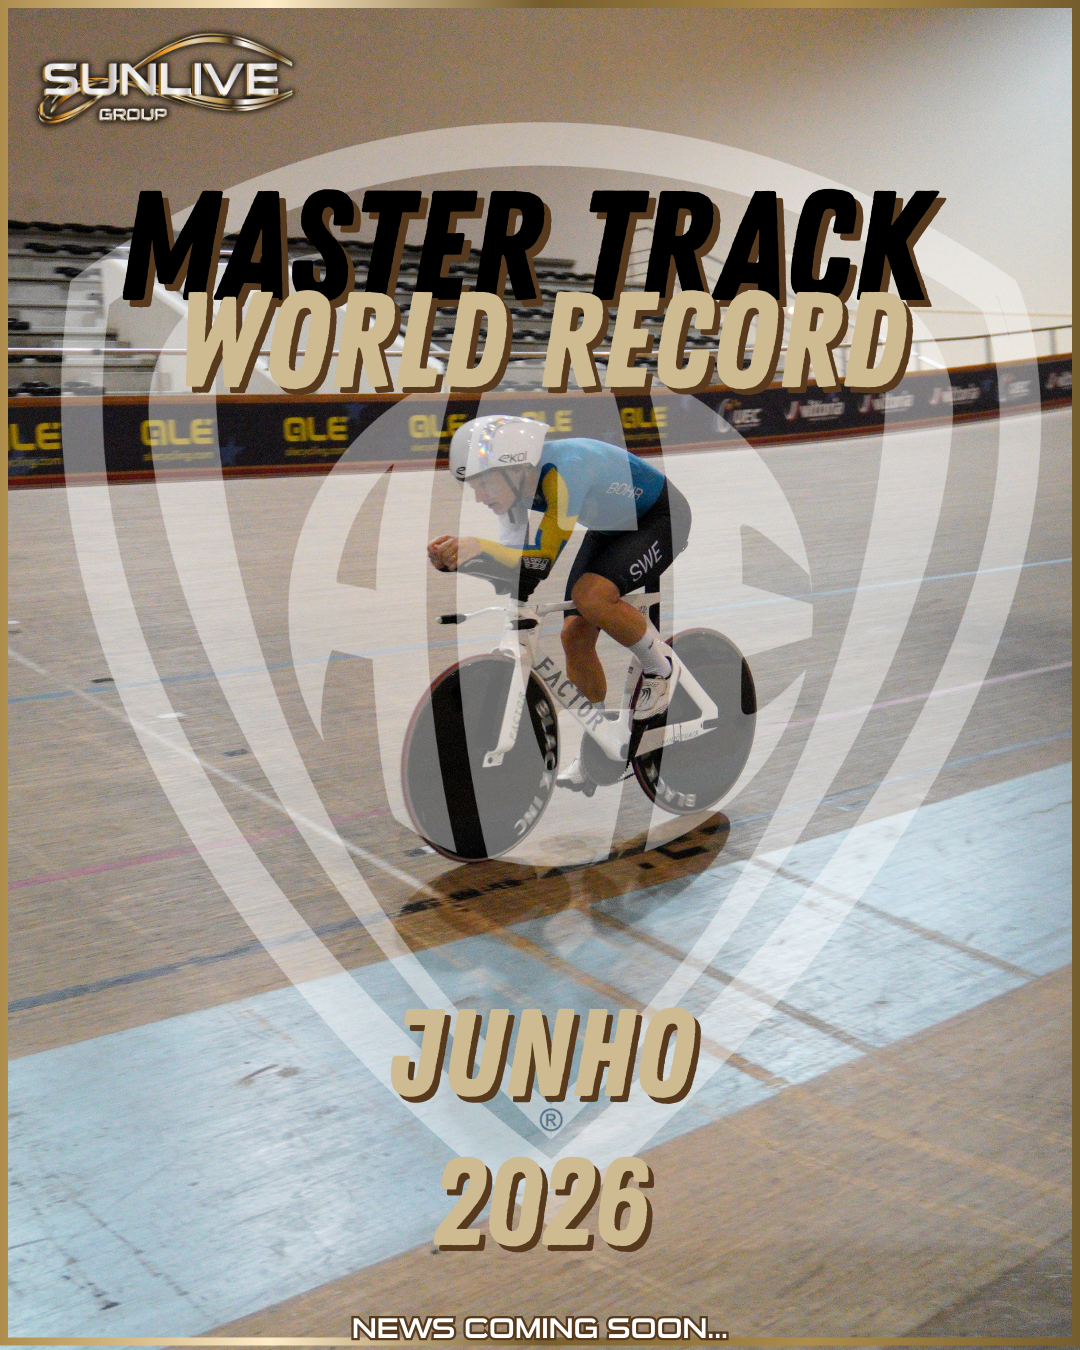
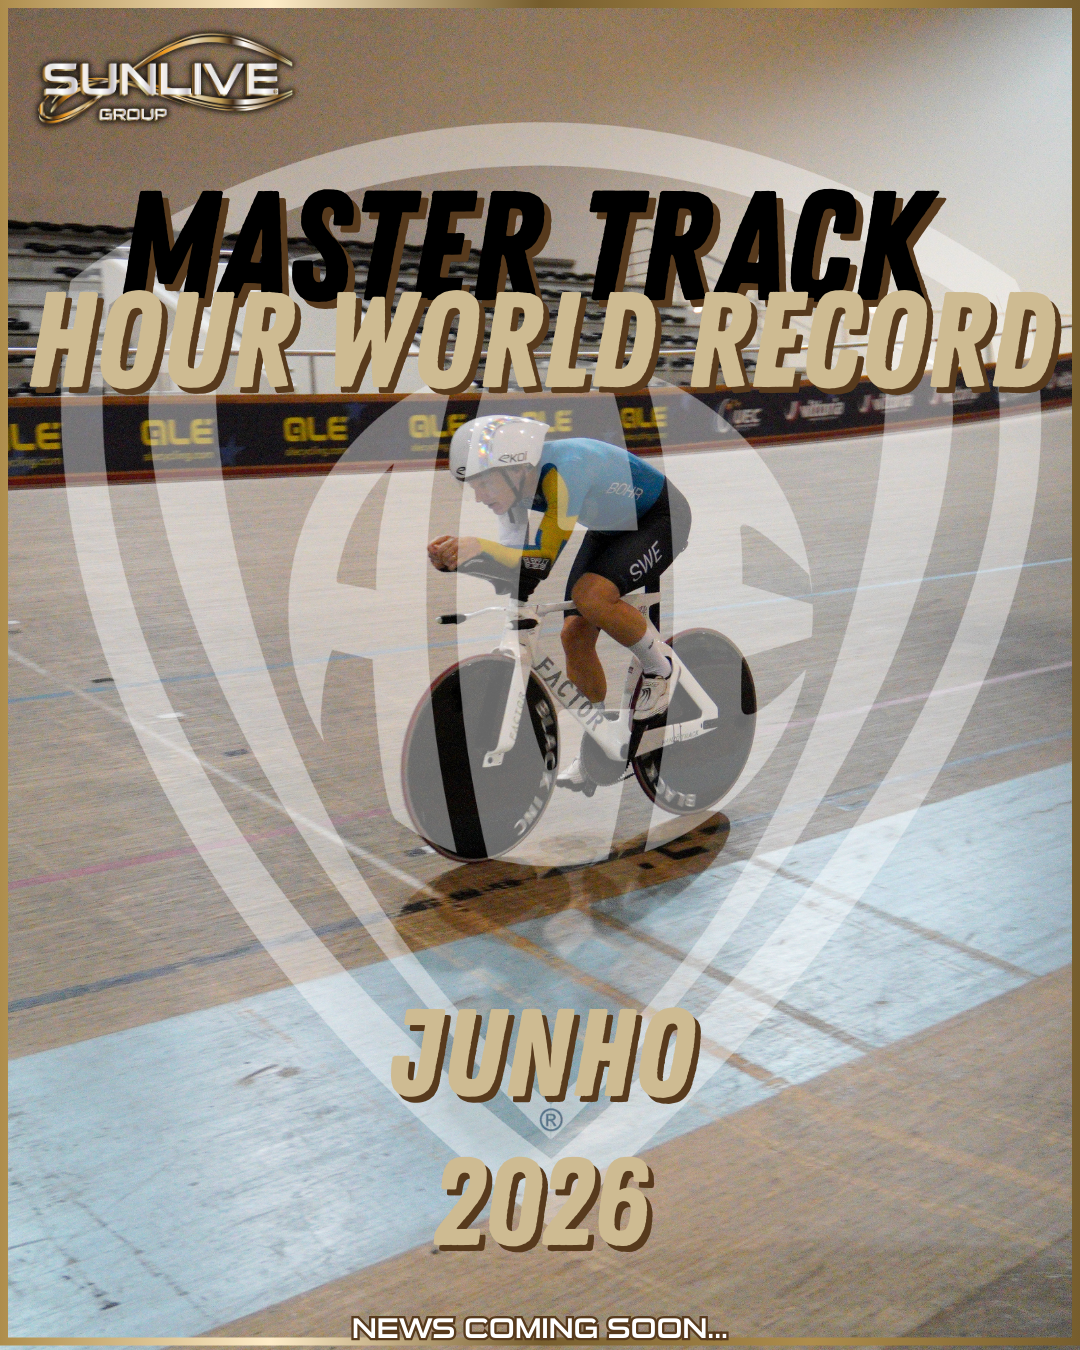
update images

Changed region(s): [[0.0306, 0.2178, 1.0, 0.3111]]

diff --git a/src/config/content/events/sunlive-track-trophy-c2.js b/src/config/content/events/sunlive-track-trophy-c2.js
@@ -7,7 +7,7 @@ import fdpLogo from "../../../assets/logos/fdp.png";
 export default {
   key: "sunlive-track-trophy-c2",
   hero: {
-    title: "Sunlive Track Trophy C2",
+    title: "Sunlive Track Trophy",
     dateLabel: "definer to later, December, 2026",
     locationLabel: "Velódromo de Sangalhos • High Performance Center",
     locationHref:
@@ -53,7 +53,7 @@ export default {
   },
 
   description: {
-    title: "The Event : Track Cycling Race (C2 Category)",
+    title: "The Event : Track Cycling Race",
     paragraphs: [
       "Speed closes the sporting year. Once again in partnership with the Portuguese Cycling Federation, this C2-class event brings track cyclists together to compete for the trophy in the controlled, high-performance environment of the National Velodrome.",
       "A day of precision and power, featuring fast-paced races and elite-level competition — designed to deliver a top-standard track cycling experience.",
@@ -63,7 +63,7 @@ export default {
       title: "Highlights",
       icon: "check",
       items: [
-        "Official track cycling race — C2 category",
+        "Official track cycling race",
         "In partnership with the Portuguese Cycling Federation",
         "Hosted in the controlled, high-performance environment of the National Velodrome",
         "Fast-paced racing focused on precision, power, and high-level competition",

diff --git a/src/config/content/events/sunlive-bmx-trophy-c2.js b/src/config/content/events/sunlive-bmx-trophy-c2.js
@@ -7,7 +7,7 @@ import fdpLogo from "../../../assets/logos/fdp.png";
 export default {
   key: "sunlive-bmx-trophy-c2",
   hero: {
-    title: "Sunlive BMX Trophy C2",
+    title: "Sunlive BMX Trophy",
     dateLabel: "definer to later, September, 2026",
     locationLabel: "Olympic BMX Track • Anadia",
     locationHref:
@@ -46,7 +46,7 @@ export default {
   },
 
   description: {
-    title: "The Event : BMX Race (C2 Category)",
+    title: "The Event : BMX Race",
     paragraphs: [
       "Pure adrenaline on the track. In partnership with the Portuguese Cycling Federation, the Sunlive Trophy brings an official C2-level competition to the Velodrome, challenging BMX riders to showcase their technique and speed.",
       "Expect explosive starts, technical lines, and intense head-to-head racing — an event built for high performance and a true competitive atmosphere.",
@@ -56,7 +56,7 @@ export default {
       title: "Highlights",
       icon: "check",
       items: [
-        "“Official BMX race — C2 category",
+        "“Official BMX race",
         "In partnership with the Portuguese Cycling Federation",
         "Focused on technique, speed, and technical lines",
         "Intense racing with explosive starts and head-to-head battles",

diff --git a/src/config/content/home.content.js b/src/config/content/home.content.js
@@ -231,8 +231,8 @@ const events = {
       image: eventRhythmicGymnasticsSunsetCup,
       href: "",
       year: 2026,
-      month: "April",
-      dateText: "April 2026 (date to be confirmed)",
+      month: "October",
+      dateText: "October 2026 (date to be confirmed)",
       tbd: true,
       sport: "RG",
     },
@@ -262,7 +262,7 @@ const events = {
     },
     {
       key: "master-track-world-record",
-      title: "Master Track World Record",
+      title: "Master Track Hour World Record",
       image: eventMasterTrackWorldRecord,
       href: "",
       year: 2026,
@@ -351,7 +351,7 @@ const events = {
     },
     {
       key: "sunlive-bmx-trophy-c2",
-      title: "Sunlive BMX Trophy C2",
+      title: "Sunlive BMX Trophy",
       image: eventSunliveBmxTrophyC2,
       href: "",
       year: 2026,
@@ -398,7 +398,7 @@ const events = {
     },
     {
       key: "sunlive-track-trophy-c2",
-      title: "Sunlive Track Trophy C2",
+      title: "Sunlive Track Trophy",
       image: eventSunliveTrackTrophyC2,
       href: "",
       year: 2026,

diff --git a/src/config/content/events/rhythmic-gymnastics-sunset-cup.js b/src/config/content/events/rhythmic-gymnastics-sunset-cup.js
@@ -4,12 +4,11 @@ import raissatrigo from "../../../assets/persons/raissa-trigo.png";
 import sasquiatrigo from "../../../assets/persons/sasquia-trigo.png";
 import gremiLogo from "../../../assets/logos/gremi.png";
 
-
 export default {
   key: "rhythmic-gymnastics-sunset-cup",
   hero: {
     title: "Rhythmic Gymnastics Sunset Cup",
-    dateLabel: "definer to later, April, 2026",
+    dateLabel: "definer to later, October, 2026",
     locationLabel: "Velódromo de Sangalhos • High Performance Center",
     locationHref:
       "https://www.google.com/maps/search/?api=1&query=Vel%C3%B3dromo%20Nacional%20de%20Sangalhos%2C%203780-524%20Sangalhos%2C%20Portugal",

diff --git a/src/config/content/events/master-track-world-record.js b/src/config/content/events/master-track-world-record.js
@@ -5,7 +5,7 @@ import aeroedgeLogo from "../../../assets/logos/aeroedge.png";
 export default {
   key: "master-track-world-record",
   hero: {
-    title: "Master Track World Record",
+    title: "Master Track Hour World Record",
     dateLabel: "definer to later, June, 2026",
     locationLabel: "Velódromo de Sangalhos • High Performance Center",
     locationHref:
